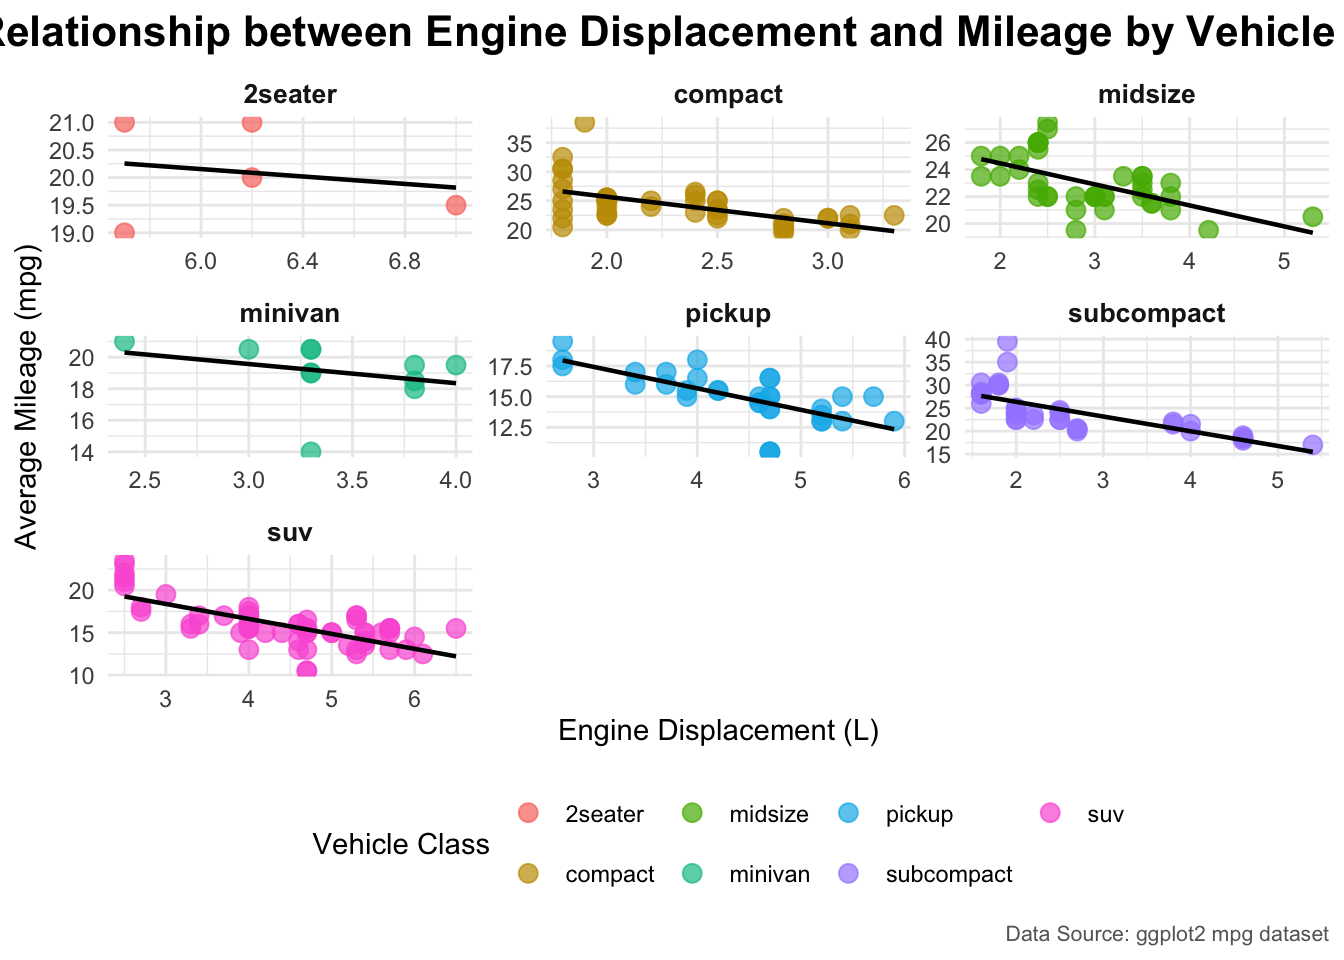
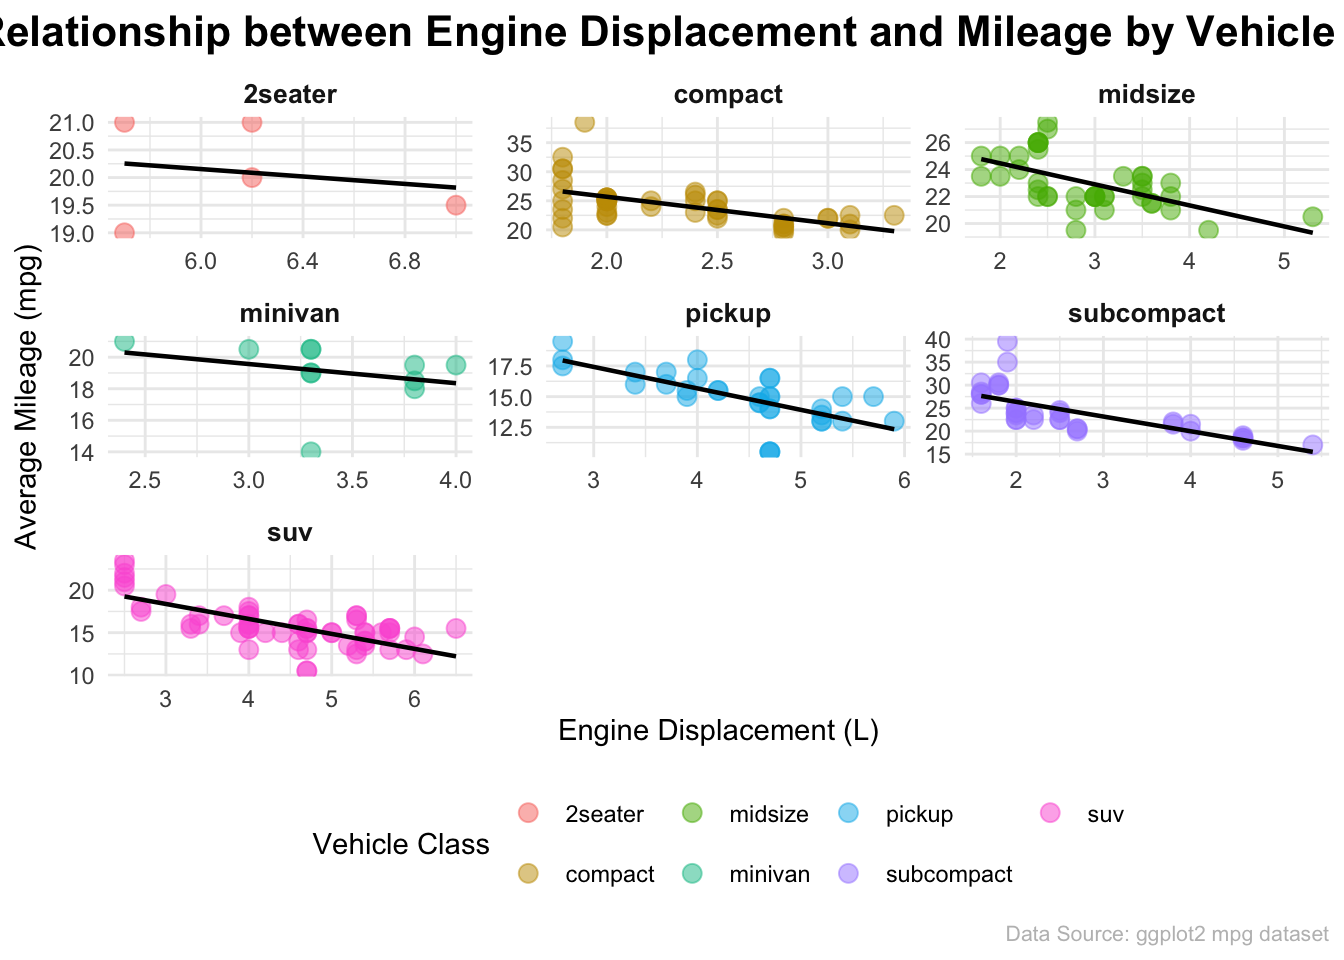
finish p01 & p02
p01 & p02 done!

diff --git a/docs/p02.html b/docs/p02.html
@@ -11,9 +11,9 @@
 
 
 
-<title>Portfolio 2</title>
+<title>Portfolio 2-Time Series Analysis Project on Stock Market forecasting</title>
 
-<script src="site_libs/header-attrs-2.13/header-attrs.js"></script>
+<script src="site_libs/header-attrs-2.29/header-attrs.js"></script>
 <script src="site_libs/jquery-3.6.0/jquery-3.6.0.min.js"></script>
 <meta name="viewport" content="width=device-width, initial-scale=1" />
 <link href="site_libs/bootstrap-3.3.5/css/bootstrap.min.css" rel="stylesheet" />
@@ -141,11 +141,15 @@ $(document).ready(function () {
     href = "index.html";
   var menuAnchor = $('a[href="' + href + '"]');
 
-  // mark it active
-  menuAnchor.tab('show');
-
-  // if it's got a parent navbar menu mark it active as well
-  menuAnchor.closest('li.dropdown').addClass('active');
+  // mark the anchor link active (and if it's in a dropdown, also mark that active)
+  var dropdown = menuAnchor.closest('li.dropdown');
+  if (window.bootstrap) { // Bootstrap 4+
+    menuAnchor.addClass('active');
+    dropdown.find('> .dropdown-toggle').addClass('active');
+  } else { // Bootstrap 3
+    menuAnchor.parent().addClass('active');
+    dropdown.addClass('active');
+  }
 
   // Navbar adjustments
   var navHeight = $(".navbar").first().height() + 15;
@@ -174,8 +178,8 @@ $(document).ready(function () {
   border-radius: 4px;
 }
 
-.tabset-dropdown > .nav-tabs > li.active:before {
-  content: "";
+.tabset-dropdown > .nav-tabs > li.active:before, .tabset-dropdown > .nav-tabs.nav-tabs-open:before {
+  content: "\e259";
   font-family: 'Glyphicons Halflings';
   display: inline-block;
   padding: 10px;
@@ -183,16 +187,9 @@ $(document).ready(function () {
 }
 
 .tabset-dropdown > .nav-tabs.nav-tabs-open > li.active:before {
-  content: "&#xe258;";
-  border: none;
-}
-
-.tabset-dropdown > .nav-tabs.nav-tabs-open:before {
-  content: "";
+  content: "\e258";
   font-family: 'Glyphicons Halflings';
-  display: inline-block;
-  padding: 10px;
-  border-right: 1px solid #ddd;
+  border: none;
 }
 
 .tabset-dropdown > .nav-tabs > li.active {
@@ -293,18 +290,176 @@ $(document).ready(function () {
 
 
 
-<h1 class="title toc-ignore">Portfolio 2</h1>
+<h1 class="title toc-ignore">Portfolio 2-Time Series Analysis Project on
+Stock Market forecasting</h1>
 
 </div>
 
 
 <blockquote>
-<p>The projects should be numbered consecutively (i.e., in the order in
-which you began them), and should include for each project a description
-of the goal, the product (computer program, hand graph, computer graph,
-etc.), the data, and some interpretation. Reports must be reproducible
-and of high quality in terms of writing, grammar, presentation, etc.</p>
+<p>okay~ let’s play something interesting! This project aims to develop
+the time series forecasting model to predict stock prices. (maybe… I
+will try)</p>
 </blockquote>
+<pre class="r"><code># install.packages(&quot;quantmod&quot;)
+library(quantmod)</code></pre>
+<pre><code>## Loading required package: xts</code></pre>
+<pre><code>## Loading required package: zoo</code></pre>
+<pre><code>## 
+## Attaching package: &#39;zoo&#39;</code></pre>
+<pre><code>## The following objects are masked from &#39;package:base&#39;:
+## 
+##     as.Date, as.Date.numeric</code></pre>
+<pre><code>## Loading required package: TTR</code></pre>
+<pre><code>## Registered S3 method overwritten by &#39;quantmod&#39;:
+##   method            from
+##   as.zoo.data.frame zoo</code></pre>
+<pre class="r"><code># Download stock data:
+getSymbols(&quot;AAPL&quot;, from = &quot;2024-01-01&quot;, to = &quot;2024-12-31&quot;)</code></pre>
+<pre><code>## [1] &quot;AAPL&quot;</code></pre>
+<pre class="r"><code>stock_data &lt;- AAPL
+
+# AAPL is the NASDAQ ticker symbol for Apple Inc.</code></pre>
+<pre class="r"><code>library(ggplot2)
+library(tidyverse)</code></pre>
+<pre><code>## ── Attaching core tidyverse packages ──────────────────────── tidyverse 2.0.0 ──
+## ✔ dplyr     1.1.4     ✔ readr     2.1.5
+## ✔ forcats   1.0.0     ✔ stringr   1.5.1
+## ✔ lubridate 1.9.4     ✔ tibble    3.2.1
+## ✔ purrr     1.0.2     ✔ tidyr     1.3.1
+## ── Conflicts ────────────────────────────────────────── tidyverse_conflicts() ──
+## ✖ dplyr::filter() masks stats::filter()
+## ✖ dplyr::first()  masks xts::first()
+## ✖ dplyr::lag()    masks stats::lag()
+## ✖ dplyr::last()   masks xts::last()
+## ℹ Use the conflicted package (&lt;http://conflicted.r-lib.org/&gt;) to force all conflicts to become errors</code></pre>
+<pre class="r"><code># Convert to time series:
+stock_ts &lt;- ts(stock_data$AAPL.Close, frequency = 252) # The US stock market has about 252 trading days per year, on average. 
+# visualize the data
+autoplot(stock_data$AAPL.Close) +
+  labs(title = &quot;Apple&#39;s Daily Closing Prices&quot;, y = &quot;Closing Price ($)&quot;)</code></pre>
+<p><img src="p02_files/figure-html/Exploratory%20Data%20Analysis-1.png" width="672" /></p>
+<pre class="r"><code>chartSeries(AAPL,TA = NULL)</code></pre>
+<p><img src="p02_files/figure-html/Exploratory%20Data%20Analysis-2.png" width="672" /></p>
+<pre class="r"><code># one model we need to apply is &quot;ARIMA&quot;, ARIMA stands for Autoregressive Integrated Moving Average. The ARIMA model combines three basic methods: Auto Regression (AR); In auto-regression the values of a given time series data are regressed on their own lagged values, which is indicated by the “p” value in the model. Differencing: This involves differencing the time series data to remove the trend and convert a non-stationary time series to a stationary one. Moving Average (MA): The MA nature of the model is represented by q values which is the number of lagged values of the error term.
+
+# therefore, we need to Testing and Ensuring Stationarity first.
+
+# install.packages(&quot;tseries&quot;)
+library(tseries)
+adf.test(stock_ts)</code></pre>
+<pre><code>## 
+##  Augmented Dickey-Fuller Test
+## 
+## data:  stock_ts
+## Dickey-Fuller = -2.1746, Lag order = 6, p-value = 0.5023
+## alternative hypothesis: stationary</code></pre>
+<pre class="r"><code>#The Augmented Dickey-Fuller (ADF) test is a statistical test that determines if a time series is stationary. It&#39;s a common test used to analyze time series data. 
+
+# my P=0.5023.. it&#39;s not stationary. Google said I need to transform it to make it stationary before performing any time series analysis, typically by using techniques like differencing, detrending, or applying a logarithmic transformation.
+
+#and it seems like differencing is the most common one, so I&#39;ll go with differencing. 
+
+diff_stock_ts &lt;- diff(stock_ts)
+adf.test(diff_stock_ts)</code></pre>
+<pre><code>## Warning in adf.test(diff_stock_ts): p-value smaller than printed p-value</code></pre>
+<pre><code>## 
+##  Augmented Dickey-Fuller Test
+## 
+## data:  diff_stock_ts
+## Dickey-Fuller = -5.8325, Lag order = 6, p-value = 0.01
+## alternative hypothesis: stationary</code></pre>
+<pre class="r"><code># now, my p is 0.01. nice!</code></pre>
+<pre class="r"><code># install.packages(&quot;forecast&quot;)
+library(forecast)
+
+stock_model &lt;- auto.arima(stock_ts)
+summary(stock_model)</code></pre>
+<pre><code>## Series: stock_ts 
+## ARIMA(0,1,0) with drift 
+## 
+## Coefficients:
+##        drift
+##       0.2662
+## s.e.  0.1819
+## 
+## sigma^2 = 8.307:  log likelihood = -618.87
+## AIC=1241.74   AICc=1241.79   BIC=1248.79
+## 
+## Training set error measures:
+##                        ME     RMSE      MAE         MPE     MAPE MASE      ACF1
+## Training set 0.0007385405 2.870722 2.093219 -0.01742605 1.019738  NaN 0.0557523</code></pre>
+<pre class="r"><code>forecasted_prices &lt;- forecast(stock_model, h = 60)
+
+# Plot the forecast
+autoplot(forecasted_prices) +
+  labs(title = &quot;Stock Price Forecast for Next 60 Days&quot;,
+       x = &quot;Time&quot;,
+       y = &quot;Predicted Stock Price&quot;)</code></pre>
+<p><img src="p02_files/figure-html/predict%20stock%20prices%20for%20the%20next%2060%20days-1.png" width="672" /></p>
+<pre class="r"><code>print(forecasted_prices)</code></pre>
+<pre><code>##          Point Forecast    Lo 80    Hi 80    Lo 95    Hi 95
+## 1.996032       252.4662 248.7725 256.1600 246.8172 258.1153
+## 2.000000       252.7325 247.5088 257.9562 244.7435 260.7215
+## 2.003968       252.9987 246.6010 259.3964 243.2143 262.7832
+## 2.007937       253.2650 245.8775 260.6524 241.9668 264.5631
+## 2.011905       253.5312 245.2718 261.7906 240.8995 266.1629
+## 2.015873       253.7974 244.7497 262.8452 239.9601 267.6348
+## 2.019841       254.0637 244.2910 263.8364 239.1177 269.0097
+## 2.023810       254.3299 243.8825 264.7773 238.3520 270.3079
+## 2.027778       254.5962 243.5150 265.6773 237.6490 271.5433
+## 2.031746       254.8624 243.1818 266.5430 236.9985 272.7263
+## 2.035714       255.1286 242.8779 267.3793 236.3928 273.8645
+## 2.039683       255.3949 242.5994 268.1903 235.8259 274.9638
+## 2.043651       255.6611 242.3432 268.9790 235.2931 276.0291
+## 2.047619       255.9274 242.1067 269.7480 234.7905 277.0642
+## 2.051587       256.1936 241.8879 270.4993 234.3149 278.0723
+## 2.055556       256.4598 241.6849 271.2347 233.8636 279.0561
+## 2.059524       256.7261 241.4965 271.9557 233.4344 280.0178
+## 2.063492       256.9923 241.3212 272.6635 233.0254 280.9593
+## 2.067460       257.2586 241.1580 273.3591 232.6349 281.8823
+## 2.071429       257.5248 241.0060 274.0436 232.2614 282.7882
+## 2.075397       257.7910 240.8643 274.7178 231.9038 283.6783
+## 2.079365       258.0573 240.7322 275.3824 231.5608 284.5537
+## 2.083333       258.3235 240.6090 276.0380 231.2316 285.4155
+## 2.087302       258.5898 240.4943 276.6852 230.9151 286.2644
+## 2.091270       258.8560 240.3874 277.3246 230.6107 287.1013
+## 2.095238       259.1222 240.2879 277.9566 230.3176 287.9269
+## 2.099206       259.3885 240.1953 278.5816 230.0351 288.7419
+## 2.103175       259.6547 240.1094 279.2001 229.7627 289.5468
+## 2.107143       259.9210 240.0296 279.8123 229.4998 290.3421
+## 2.111111       260.1872 239.9558 280.4186 229.2460 291.1284
+## 2.115079       260.4534 239.8877 281.0192 229.0008 291.9061
+## 2.119048       260.7197 239.8248 281.6145 228.7637 292.6756
+## 2.123016       260.9859 239.7671 282.2047 228.5345 293.4373
+## 2.126984       261.2522 239.7142 282.7901 228.3127 294.1916
+## 2.130952       261.5184 239.6660 283.3708 228.0981 294.9387
+## 2.134921       261.7846 239.6223 283.9470 227.8903 295.6790
+## 2.138889       262.0509 239.5828 284.5189 227.6890 296.4128
+## 2.142857       262.3171 239.5475 285.0868 227.4940 297.1403
+## 2.146825       262.5834 239.5161 285.6507 227.3050 297.8617
+## 2.150794       262.8496 239.4884 286.2108 227.1218 298.5774
+## 2.154762       263.1158 239.4645 286.7672 226.9442 299.2875
+## 2.158730       263.3821 239.4440 287.3201 226.7720 299.9922
+## 2.162698       263.6483 239.4269 287.8697 226.6049 300.6917
+## 2.166667       263.9146 239.4132 288.4159 226.4429 301.3862
+## 2.170635       264.1808 239.4025 288.9591 226.2857 302.0759
+## 2.174603       264.4470 239.3950 289.4991 226.1332 302.7608
+## 2.178571       264.7133 239.3904 290.0362 225.9852 303.4413
+## 2.182540       264.9795 239.3886 290.5704 225.8417 304.1174
+## 2.186508       265.2458 239.3897 291.1018 225.7023 304.7892
+## 2.190476       265.5120 239.3934 291.6306 225.5671 305.4569
+## 2.194444       265.7782 239.3998 292.1567 225.4359 306.1206
+## 2.198413       266.0445 239.4087 292.6803 225.3085 306.7805
+## 2.202381       266.3107 239.4200 293.2014 225.1849 307.4365
+## 2.206349       266.5770 239.4337 293.7202 225.0650 308.0889
+## 2.210317       266.8432 239.4498 294.2366 224.9486 308.7378
+## 2.214286       267.1094 239.4681 294.7507 224.8357 309.3832
+## 2.218254       267.3757 239.4887 295.2627 224.7262 310.0252
+## 2.222222       267.6419 239.5114 295.7725 224.6199 310.6639
+## 2.226190       267.9082 239.5361 296.2802 224.5169 311.2994
+## 2.230159       268.1744 239.5629 296.7859 224.4169 311.9319</code></pre>
+<pre class="r"><code># In an oversimplified way, I predicted the next 60 days of Apple stock... Whoever follows this procedure for stocks should be prepared to accept the fate of bankruptcy.</code></pre>
 
 
 

diff --git a/docs/p01.html b/docs/p01.html
@@ -298,12 +298,11 @@ $(document).ready(function () {
 <blockquote>
 <p>description of the goal: The main goal of this Tidy Tuesday project
 is to explore and analyze automotive fuel efficiency using the “mpg”
-dataset. Through various data transformations, visualizations, and
-summaries, the project aims to:</p>
+dataset. The project aims to:</p>
 </blockquote>
 <ul>
 <li><p>Understand the relationship between engine displacement and
-average fuel efficiency in different classes of vehicles.</p></li>
+average fuel efficiency.</p></li>
 <li><p>Investigate patterns in the distribution of fuel efficiency
 across different classes of vehicles.</p></li>
 <li><p>Evaluate manufacturer-specific fuel efficiency trends and
@@ -328,18 +327,20 @@ glimpse(mpg)</code></pre>
 ## $ class        &lt;chr&gt; &quot;compact&quot;, &quot;compact&quot;, &quot;compact&quot;, &quot;compact&quot;, &quot;compact&quot;, &quot;c…</code></pre>
 <pre class="r"><code># Data cleaning and preparation
 mpg_clean &lt;- mpg %&gt;%
-  filter(!is.na(hwy), !is.na(cty)) %&gt;% # Remove potential missing values
+  filter(!is.na(hwy), !is.na(cty)) %&gt;% # Remove missing values
   mutate(avg_mpg = (hwy + cty)/2)      # Create a new column for average mileage</code></pre>
-<pre class="r"><code># Explore relationships: Does engine displacement (displ) affect mileage?
+<pre class="r"><code># Explore relationships: Does engine displacement affect mileage?
 mpg_summary &lt;- mpg_clean %&gt;%
   group_by(class, manufacturer) %&gt;%
   summarize(mean_mpg = mean(avg_mpg),
             mean_displ = mean(displ),
             .groups = &quot;drop&quot;) %&gt;%
-  arrange(desc(mean_mpg))</code></pre>
+  arrange(desc(mean_mpg))
+
+# based on the mpg_summary, the data is sorted by descending average mileage (mean_mpg), reveals lower average engine displacement (mean_displ) among vehicles with higher mileage.</code></pre>
 <pre class="r"><code># Data visualization: Mileage vs Engine displacement, by Vehicle Class
 ggplot(mpg_clean, aes(x = displ, y = avg_mpg, color = class)) +
-  geom_point(alpha = 0.7, size = 3) +
+  geom_point(alpha = 0.5, size = 3) +
   geom_smooth(method = &quot;lm&quot;, se = FALSE, color = &quot;black&quot;, linewidth = 0.8) +
   facet_wrap(~class, scales = &quot;free&quot;) +
   labs(
@@ -354,7 +355,7 @@ ggplot(mpg_clean, aes(x = displ, y = avg_mpg, color = class)) +
     legend.position = &quot;bottom&quot;,
     strip.text = element_text(size = 10, face = &quot;bold&quot;),
     plot.title = element_text(size = 16, face = &quot;bold&quot;, hjust = 0.5),
-    plot.caption = element_text(size = 8, color = &quot;gray40&quot;)
+    plot.caption = element_text(size = 8, color = &quot;gray&quot;)
   )</code></pre>
 <pre><code>## `geom_smooth()` using formula = &#39;y ~ x&#39;</code></pre>
 <p><img src="p01_files/figure-html/data%20visualization-1.png" width="672" /></p>
